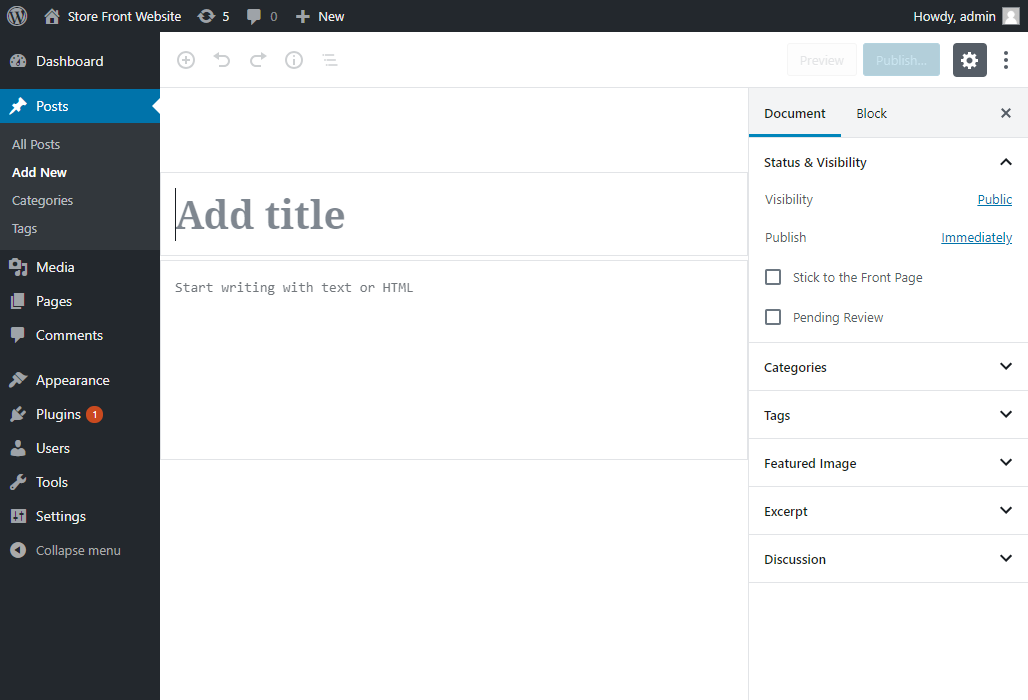
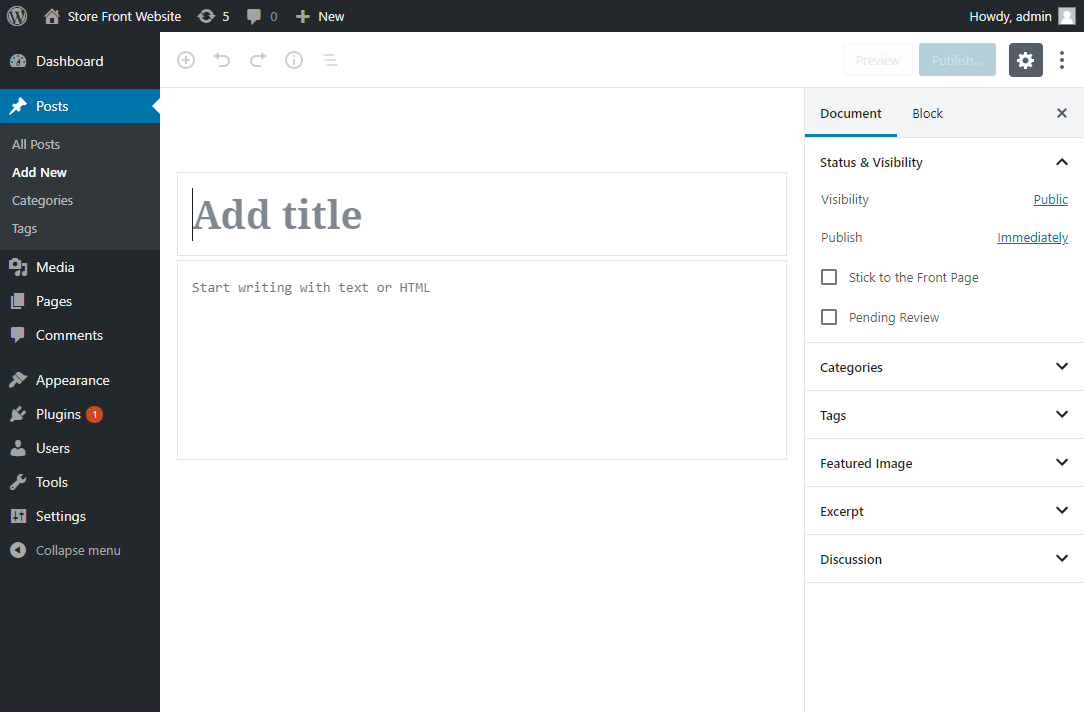
Run UI test scripts

diff --git a/reports/galen/1-verify-that-post-page-displays-correctly-on-desktop-device.html b/reports/galen/1-verify-that-post-page-displays-correctly-on-desktop-device.html
@@ -21,7 +21,7 @@ var REPORT_DATA = {
           "name" : "css: input#user_login",
           "type" : "text"
         } ],
-        "time" : 1558086769001,
+        "time" : 1558337916732,
         "type" : "node"
       }, {
         "name" : "Type \"123456789\" to password on Login page",
@@ -30,7 +30,7 @@ var REPORT_DATA = {
           "name" : "css: input#user_pass",
           "type" : "text"
         } ],
-        "time" : 1558086769039,
+        "time" : 1558337916782,
         "type" : "node"
       }, {
         "name" : "Click submitButton on Login page",
@@ -39,7 +39,7 @@ var REPORT_DATA = {
           "name" : "css: input#wp-submit",
           "type" : "text"
         } ],
-        "time" : 1558086769079,
+        "time" : 1558337916828,
         "type" : "node"
       }, {
         "name" : "Click linkPost on Dashboard Page",
@@ -48,7 +48,7 @@ var REPORT_DATA = {
           "name" : "xpath: //div[@class='wp-menu-name' and text()= 'Posts']",
           "type" : "text"
         } ],
-        "time" : 1558086770519,
+        "time" : 1558337917726,
         "type" : "node"
       }, {
         "name" : "Click dismissButton on Post page",
@@ -57,12 +57,12 @@ var REPORT_DATA = {
           "name" : "css: .nux-dot-tip__disable",
           "type" : "text"
         } ],
-        "time" : 1558086773641,
+        "time" : 1558337920190,
         "type" : "node"
       }, {
         "name" : "Check layout: specs/post/postPage.gspec included tags: desktop",
-        "status" : "info",
-        "time" : 1558086776214,
+        "status" : "error",
+        "time" : 1558337922490,
         "includedTags" : [ "desktop" ],
         "sections" : [ {
           "name" : "Post Header Setting",
@@ -462,12 +462,13 @@ var REPORT_DATA = {
           }, {
             "name" : "editor_body.title_textfield",
             "specs" : [ {
-              "status" : "info",
+              "status" : "error",
               "place" : {
                 "filePath" : "specs/post/postPage.gspec",
                 "lineNumber" : 68
               },
               "name" : "width 588 px",
+              "errors" : [ "\"editor_body.title_textfield\" width is 610px instead of 588px" ],
               "meta" : [ {
                 "from" : {
                   "object" : "editor_body.title_textfield",
@@ -478,7 +479,7 @@ var REPORT_DATA = {
                   "edge" : "right"
                 },
                 "expectedDistance" : "588px",
-                "realDistance" : "588px"
+                "realDistance" : "610px"
               } ],
               "highlight" : [ "editor_body.title_textfield" ]
             }, {
@@ -505,12 +506,13 @@ var REPORT_DATA = {
           }, {
             "name" : "editor_body.content_textfield",
             "specs" : [ {
-              "status" : "info",
+              "status" : "error",
               "place" : {
                 "filePath" : "specs/post/postPage.gspec",
                 "lineNumber" : 71
               },
               "name" : "width 588 px",
+              "errors" : [ "\"editor_body.content_textfield\" width is 610px instead of 588px" ],
               "meta" : [ {
                 "from" : {
                   "object" : "editor_body.content_textfield",
@@ -521,7 +523,7 @@ var REPORT_DATA = {
                   "edge" : "right"
                 },
                 "expectedDistance" : "588px",
-                "realDistance" : "588px"
+                "realDistance" : "610px"
               } ],
               "highlight" : [ "editor_body.content_textfield" ]
             }, {
@@ -1005,22 +1007,22 @@ var REPORT_DATA = {
         } ],
         "objects" : {
           "components_panel_item-6" : {
-            "area" : [ 749, 534, 279, 47 ]
+            "area" : [ 805, 534, 279, 47 ]
           },
           "panel_tab.tab_item-1" : {
-            "area" : [ 749, 88, 92, 48 ]
+            "area" : [ 805, 88, 92, 48 ]
           },
           "panel_tab.tab_item-2" : {
-            "area" : [ 840, 88, 61, 48 ]
+            "area" : [ 896, 88, 61, 48 ]
           },
           "header__settings.preview_button" : {
-            "area" : [ 786, 43, 70, 33 ]
+            "area" : [ 842, 43, 70, 33 ]
           },
           "toolbar.undo_button" : {
             "area" : [ 204, 41, 36, 36 ]
           },
           "header__settings.setting_button.icon_setting" : {
-            "area" : [ 960, 49, 20, 20 ]
+            "area" : [ 1016, 49, 20, 20 ]
           },
           "toolbar" : {
             "area" : [ 168, 40, 180, 39 ]
@@ -1029,52 +1031,58 @@ var REPORT_DATA = {
             "area" : [ 276, 41, 36, 36 ]
           },
           "editor_body.title_textfield" : {
-            "area" : [ 160, 172, 588, 84 ]
+            "area" : [ 177, 172, 610, 84 ]
           },
           "panel_tab" : {
-            "area" : [ 749, 88, 279, 50 ]
+            "area" : [ 805, 88, 279, 50 ]
           },
           "toolbar.redo_button" : {
             "area" : [ 240, 41, 36, 36 ]
           },
           "components_panel_item-1" : {
-            "area" : [ 749, 138, 279, 47 ]
+            "area" : [ 805, 138, 279, 47 ]
           },
           "editor_body.title_label" : {
-            "area" : [ 159, 171, 1, 1 ]
+            "area" : [ 176, 171, 1, 1 ]
           },
           "toolbar.insert_button" : {
             "area" : [ 168, 41, 36, 36 ]
           },
           "components_panel_item-5" : {
-            "area" : [ 749, 486, 279, 47 ]
+            "area" : [ 805, 486, 279, 47 ]
           },
           "header__settings.publish_button" : {
-            "area" : [ 863, 43, 77, 33 ]
+            "area" : [ 919, 43, 77, 33 ]
           },
           "toolbar.block_navigation_button" : {
             "area" : [ 312, 41, 36, 36 ]
           },
           "editor_body.content_textfield" : {
-            "area" : [ 160, 260, 588, 200 ]
+            "area" : [ 177, 260, 610, 200 ]
           },
           "components_panel_item-4" : {
-            "area" : [ 749, 438, 279, 47 ]
+            "area" : [ 805, 438, 279, 47 ]
           },
           "components_panel_item-3" : {
-            "area" : [ 749, 390, 279, 47 ]
+            "area" : [ 805, 390, 279, 47 ]
           },
           "header__settings.show_more_tool_button" : {
-            "area" : [ 992, 41, 28, 36 ]
+            "area" : [ 1048, 41, 28, 36 ]
           },
           "components_panel_item-2" : {
-            "area" : [ 749, 342, 279, 47 ]
+            "area" : [ 805, 342, 279, 47 ]
           }
         },
         "screenshot" : "layout-1-screenshot.png",
         "type" : "layout"
       } ],
-      "time" : 1558086768920,
+      "time" : 1558337916647,
+      "type" : "node"
+    }, {
+      "name" : "Screenshot",
+      "status" : "info",
+      "attachments" : [ "file-2-Screenshot" ],
+      "time" : 1558337922491,
       "type" : "node"
     } ]
   }

diff --git a/reports/galen/report.html b/reports/galen/report.html
@@ -9,19 +9,19 @@
         var REPORT_DATA = {
   "tests" : [ {
     "name" : "Verify that post page displays correctly  on desktop device",
-    "startedAt" : 1558086763771,
-    "endedAt" : 1558086776215,
-    "failed" : false,
+    "startedAt" : 1558337912533,
+    "endedAt" : 1558337922491,
+    "failed" : true,
     "statistic" : {
-      "passed" : 61,
-      "errors" : 0,
+      "passed" : 60,
+      "errors" : 2,
       "warnings" : 0,
-      "total" : 61
+      "total" : 62
     },
     "testId" : "1-verify-that-post-page-displays-correctly-on-desktop-device",
-    "duration" : 12444,
     "groups" : [ ],
-    "failed" : false
+    "duration" : 9958,
+    "failed" : true
   } ]
 };
         </script>
